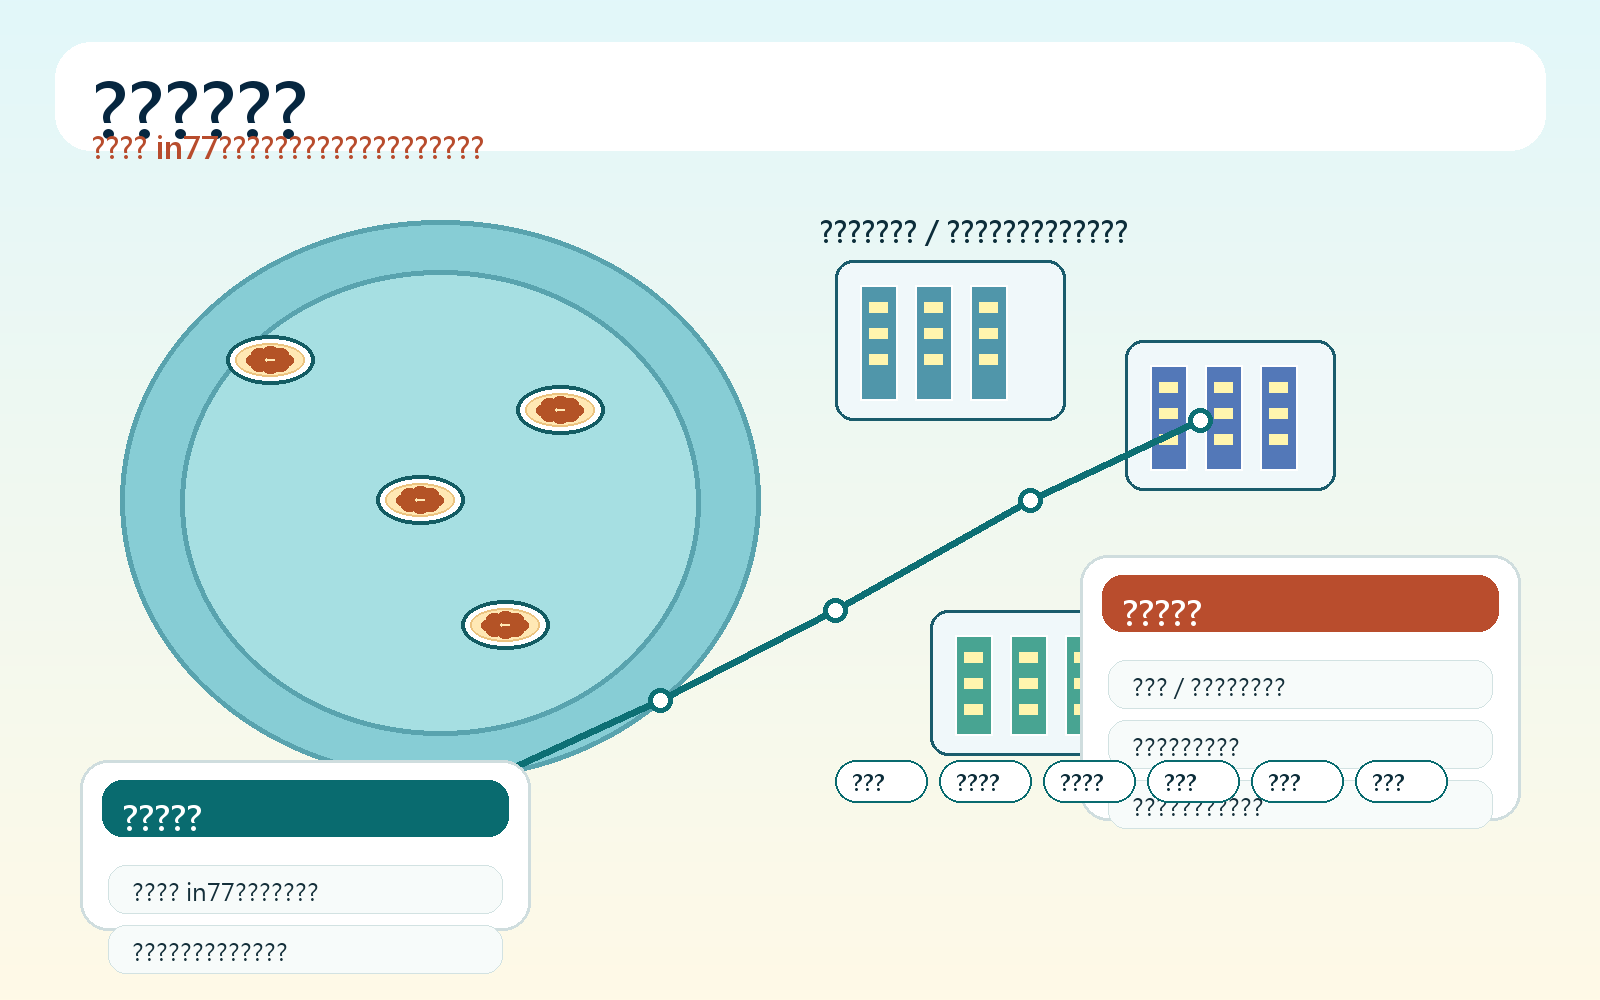
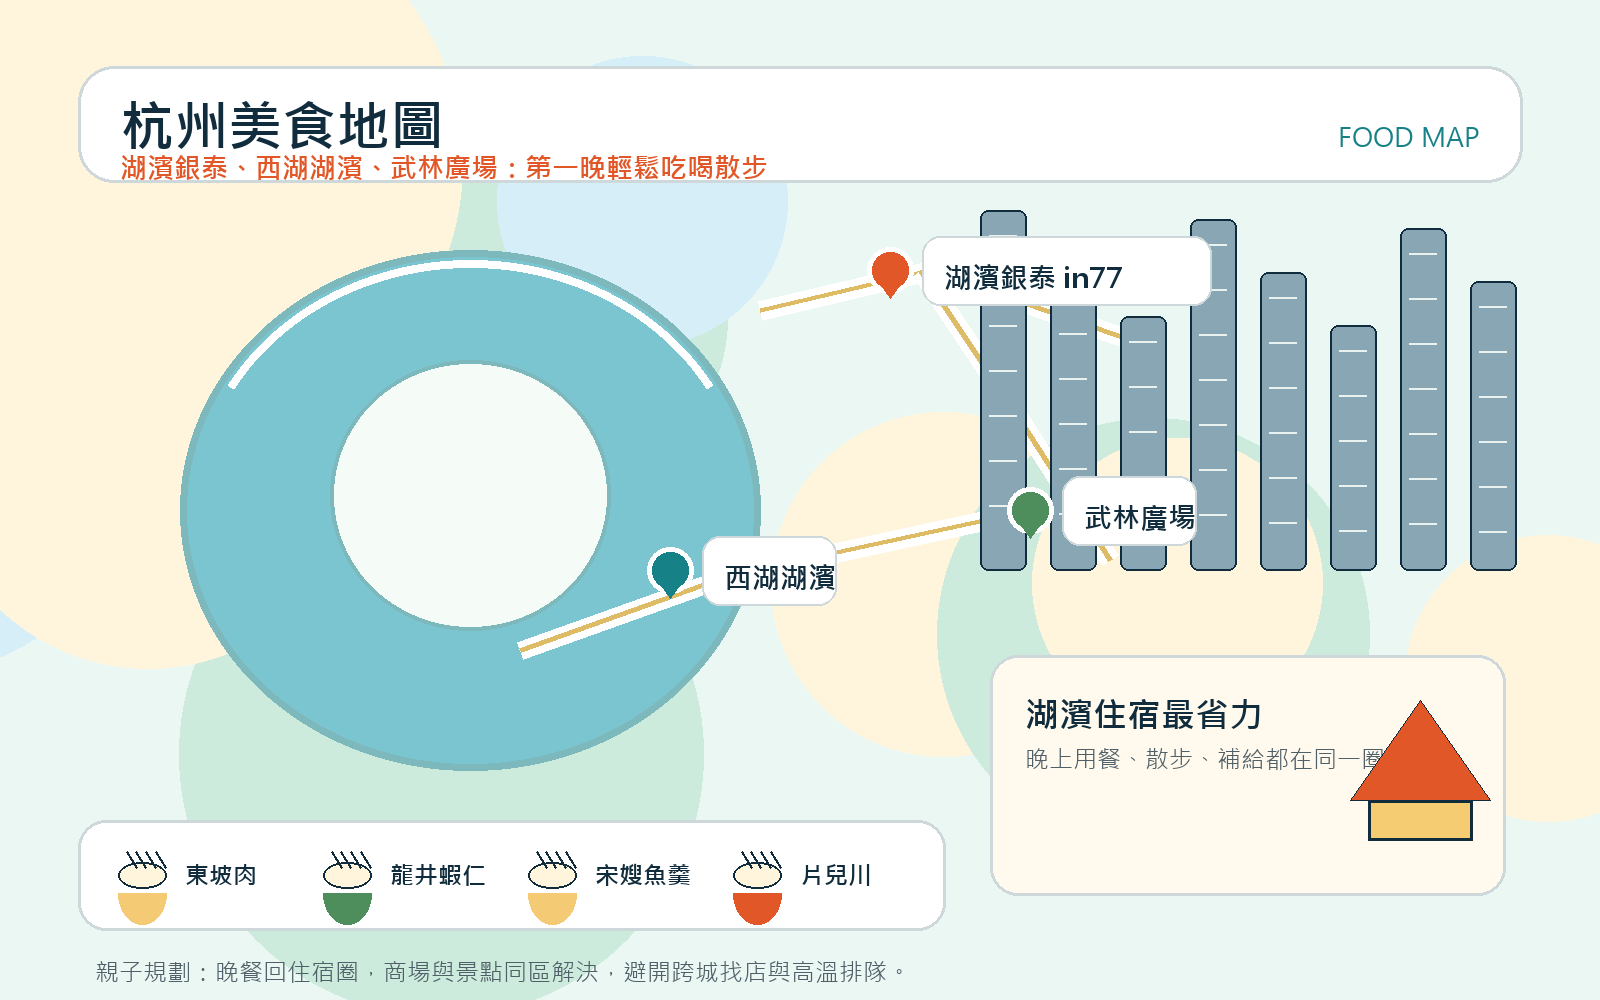
Upgrade food maps and restaurant cards

diff --git a/index.html b/index.html
@@ -17,15 +17,15 @@
     .transport-grid{display:grid;grid-template-columns:repeat(4,1fr);gap:13px;margin-top:22px}.transport{border:1px solid var(--line);border-radius:18px;padding:20px;background:#fff}.transport .date{font-size:12px;color:var(--coral);font-weight:900}.transport h3{font-size:17px;margin:15px 0 7px}.transport p{color:var(--muted);font-size:13px;margin:0}
     .itinerary-layout{display:grid;grid-template-columns:330px 1fr;gap:24px;align-items:start}.day-nav{position:sticky;top:95px;border-radius:22px;background:var(--navy);padding:12px;border:1px solid #345261}.day-button{width:100%;text-align:left;padding:14px;border:1px solid transparent;border-radius:14px;background:transparent;color:#d7e2e5;display:grid;grid-template-columns:46px 1fr;gap:8px}.day-button:hover,.day-button.active,.day-button:focus-visible{background:#163d4e;color:#fff;border-color:#7e9aa6;outline:3px solid var(--gold);outline-offset:2px}.day-button b{color:var(--gold)}.day-button span{font-size:13px}.detail{color:var(--ink);border:1px solid var(--line);border-radius:27px;background:#fff;overflow:hidden;box-shadow:var(--shadow)}.detail-cover{min-height:245px;padding:36px;color:#fff;background:linear-gradient(120deg,var(--navy),#09545a);display:flex;align-items:flex-end;justify-content:space-between}.detail-cover h3{font-size:38px;line-height:1.1;margin:7px 0;color:#fff}.detail-cover p{max-width:500px;color:#e1eaed;line-height:1.7;font-size:14px}.pace{color:#fff;border:1px solid #b8cdd4;background:rgba(7,29,43,.55);border-radius:999px;padding:10px 14px;font-size:12px;white-space:nowrap}.schedule{padding:12px 32px 32px}.schedule-row{display:grid;grid-template-columns:90px 170px 1fr;gap:20px;padding:20px 0;border-bottom:1px solid var(--line)}.schedule-row:last-child{border:none}.time{color:var(--teal);font-weight:900}.schedule-row b{color:var(--ink);font-size:14px}.schedule-row p{margin:0;color:var(--muted);font-size:14px;line-height:1.6}.day-meta{display:grid;grid-template-columns:repeat(3,1fr);gap:10px;padding:0 32px 32px}.meta{color:var(--ink);padding:15px;border-radius:15px;background:var(--teal-light);border:1px solid #bad4d1}.meta small,.meta b{display:block}.meta small{color:var(--muted);font-size:12px}.meta b{color:var(--ink);font-size:13px;margin-top:7px}
     .stay-grid{display:grid;grid-template-columns:repeat(3,1fr);gap:16px}.stay{border-radius:22px;background:#fff;border:1px solid var(--line);padding:25px}.stay .city{font-size:11px;color:var(--coral);font-weight:900}.stay h3{font-size:23px;margin:13px 0}.stay ul{padding-left:18px;margin:0;color:var(--muted);font-size:12px;line-height:1.9}.stay .night{display:inline-block;margin-top:20px;padding:7px 10px;border-radius:999px;background:var(--teal-light);color:var(--teal);font-size:11px;font-weight:800}
-    .guide-grid{display:grid;grid-template-columns:repeat(3,1fr);gap:16px}.guide-card{border:1px solid var(--line);border-radius:24px;background:#fff;padding:24px;box-shadow:var(--shadow)}.guide-card .label,.food-zone .label{display:inline-block;padding:6px 10px;border-radius:999px;background:var(--teal-light);color:var(--teal);font-size:11px;font-weight:900}.guide-card h3,.food-zone h3{margin:14px 0 12px;font-size:24px}.guide-card p,.food-zone p{margin:0;color:var(--muted);font-size:13px;line-height:1.75}.guide-list{display:grid;gap:9px;margin-top:17px}.guide-list span{padding:10px 12px;border-radius:13px;background:#f7fbfa;border:1px solid var(--line);font-size:13px;line-height:1.55}.food-map-gallery{display:grid;grid-template-columns:repeat(3,1fr);gap:16px;margin:0 0 22px}.food-map-card{border:1px solid #496673;border-radius:24px;background:#0f2c3a;overflow:hidden;box-shadow:var(--shadow)}.food-map-card button{display:block;width:100%;padding:0;border:0;background:transparent;text-align:left;color:#fff;cursor:pointer}.food-map-card img{display:block;width:100%;height:270px;object-fit:cover;object-position:center}.food-map-card b{display:block;padding:16px 18px 4px;font-size:18px}.food-map-card span{display:block;padding:0 18px 18px;color:#dbe5e8;font-size:13px;line-height:1.65}.food-layout{display:grid;grid-template-columns:.9fr 1.1fr;gap:18px}.food-zone{border:1px solid #496673;border-radius:24px;background:#102f3e;padding:24px;color:#fff}.food-zone .label{background:#fff;color:var(--navy)}.food-zone h3{color:#fff}.food-zone p{color:#dbe5e8}.dish-list{display:flex;flex-wrap:wrap;gap:8px;margin-top:16px}.dish-list span{padding:8px 10px;border-radius:999px;background:#fff;color:var(--navy);font-size:12px;font-weight:800}.plan-gallery{display:grid;grid-template-columns:repeat(4,1fr);gap:14px}.plan-ref{border:1px solid var(--line);border-radius:20px;background:#fff;overflow:hidden}.plan-ref button{width:100%;padding:0;border:2px solid transparent;background:none;text-align:left}.plan-ref img{display:block;width:100%;height:210px;object-fit:cover;object-position:top}.plan-ref b{display:block;padding:14px 16px;font-size:13px}.plan-ref button:focus-visible,.image-open:focus-visible{outline:3px solid var(--teal);outline-offset:3px}
+    .guide-grid{display:grid;grid-template-columns:repeat(3,1fr);gap:16px}.guide-card{border:1px solid var(--line);border-radius:24px;background:#fff;padding:24px;box-shadow:var(--shadow)}.guide-card .label{display:inline-block;padding:6px 10px;border-radius:999px;background:var(--teal-light);color:var(--teal);font-size:11px;font-weight:900}.guide-card h3{margin:14px 0 12px;font-size:24px}.guide-card p{margin:0;color:var(--muted);font-size:13px;line-height:1.75}.guide-list{display:grid;gap:9px;margin-top:17px}.guide-list span{padding:10px 12px;border-radius:13px;background:#f7fbfa;border:1px solid var(--line);font-size:13px;line-height:1.55}.food-city-stack{display:grid;gap:30px}.food-city{overflow:hidden;border:1px solid #496673;border-radius:28px;background:#0f2c3a;box-shadow:var(--shadow)}.food-city-cover button{display:block;width:100%;padding:0;border:0;background:transparent;cursor:pointer}.food-city-cover img{display:block;width:100%;height:auto}.food-city-body{padding:22px}.food-city-head{display:flex;align-items:end;justify-content:space-between;gap:18px;margin-bottom:16px}.food-city-head h3{margin:0;color:#fff;font-size:28px}.food-city-head p{max-width:620px;margin:0;color:#dbe5e8;font-size:13px;line-height:1.7}.restaurant-grid{display:grid;grid-template-columns:repeat(3,1fr);gap:14px}.restaurant-card{display:flex;flex-direction:column;gap:12px;border:1px solid #d6e2e3;border-radius:20px;background:#fff;padding:18px;color:var(--ink)}.restaurant-card .tag{align-self:flex-start;padding:6px 9px;border-radius:999px;background:var(--teal-light);color:var(--teal);font-size:11px;font-weight:900}.restaurant-card h4{margin:0;font-size:20px}.restaurant-meta{display:grid;gap:8px;margin:0;color:var(--muted);font-size:12px;line-height:1.6}.restaurant-meta div{padding:9px 10px;border-radius:12px;background:#f7fbfa;border:1px solid var(--line)}.restaurant-link{margin-top:auto;display:inline-flex;align-items:center;justify-content:center;border-radius:999px;background:var(--navy);color:#fff;text-decoration:none;padding:10px 13px;font-size:12px;font-weight:900}.food-note{margin-top:16px;color:#dbe5e8;font-size:12px;line-height:1.7}.plan-gallery{display:grid;grid-template-columns:repeat(4,1fr);gap:14px}.plan-ref{border:1px solid var(--line);border-radius:20px;background:#fff;overflow:hidden}.plan-ref button{width:100%;padding:0;border:2px solid transparent;background:none;text-align:left}.plan-ref img{display:block;width:100%;height:210px;object-fit:cover;object-position:top}.plan-ref b{display:block;padding:14px 16px;font-size:13px}.plan-ref button:focus-visible,.image-open:focus-visible{outline:3px solid var(--teal);outline-offset:3px}
     .cost-hero{display:grid;grid-template-columns:.78fr 1.22fr;gap:22px}.cost-total{border-radius:26px;padding:31px;background:var(--coral);color:#fff}.cost-total strong{display:block;font-size:55px;letter-spacing:-.06em;margin:10px 0}.cost-total p{font-size:13px;line-height:1.7;color:#fff}.cost-lines{background:#fff;border:1px solid var(--line);border-radius:26px;padding:22px 28px}.cost-line{display:grid;grid-template-columns:1fr auto;gap:10px;padding:18px 0;border-bottom:1px solid var(--line)}.cost-line:last-child{border:none}.cost-line span{font-size:14px;color:var(--muted)}.cost-line b{color:var(--teal)}.evidence-grid{display:grid;grid-template-columns:repeat(3,1fr);gap:14px;margin-top:28px}.evidence{border:1px solid var(--line);border-radius:21px;background:#fff;overflow:hidden}.evidence button{width:100%;padding:0;border:2px solid transparent;background:none;text-align:left}.evidence button:focus-visible{outline:3px solid var(--teal);outline-offset:3px}.evidence img{display:block;width:100%;height:210px;object-fit:cover;object-position:top}.evidence-copy{padding:18px}.evidence-copy b{display:block;font-size:14px}.evidence-copy span{font-size:12px;color:var(--muted);line-height:1.6}
     .apps{display:grid;grid-template-columns:repeat(4,1fr);gap:14px}.app{position:relative;border:1px solid #496673;border-radius:20px;padding:22px;background:#102f3e}.app-head{display:flex;align-items:center;gap:13px;margin-bottom:15px}.app-logo{width:56px;height:56px;flex:0 0 56px;object-fit:cover;border:3px solid #fff;border-radius:15px;background:#fff;box-shadow:0 7px 18px #00131d66}.app-title{min-width:0}.app-num{display:block;margin-bottom:3px;color:var(--gold);font-size:11px;font-weight:900;letter-spacing:.08em}.app h3{font-size:19px;margin:0;color:#fff}.app p{font-size:13px;color:#dbe5e8;line-height:1.75}.app-tag{display:inline-block;margin-top:10px;padding:6px 9px;border-radius:999px;background:#fff;color:var(--navy);font-size:11px;font-weight:800}.apps-source{margin-top:23px;padding:18px 22px;border:1px dashed #75909a;border-radius:17px;color:#dbe5e8;font-size:12px;line-height:1.7}.app-reference{display:grid;grid-template-columns:190px 1fr;gap:22px;align-items:center;margin-top:18px;padding:18px;border-radius:20px;background:#102f3e;border:1px solid #496673}.app-reference button{padding:0;border:2px solid transparent;background:none;border-radius:15px}.app-reference button:focus-visible{outline:3px solid var(--gold);outline-offset:3px}.app-reference img{display:block;width:190px;height:150px;object-fit:cover;object-position:top;border-radius:13px}.app-reference b{display:block;margin-bottom:8px;color:#fff}.app-reference p{margin:0;color:#dbe5e8;font-size:12px;line-height:1.7}
     .check-grid{display:grid;grid-template-columns:repeat(4,1fr);gap:14px}.check{border:1px solid var(--line);border-radius:20px;background:#fff;padding:23px}.check b{display:block;font-size:16px;margin-bottom:10px}.check p{color:var(--muted);font-size:12px;line-height:1.7;margin:0}.check i{display:block;width:28px;height:5px;border-radius:99px;background:var(--coral);margin-bottom:25px}
     .modal{position:fixed;z-index:100;inset:0;display:none;align-items:center;justify-content:center;padding:25px;background:rgba(2,14,21,.88)}.modal.open{display:flex}.modal img{max-width:min(1400px,96vw);max-height:90vh;border-radius:13px;box-shadow:0 20px 80px #000}.modal-close{position:absolute;right:25px;top:25px;width:44px;height:44px;border-radius:50%;border:1px solid rgba(255,255,255,.4);background:rgba(0,0,0,.3);color:#fff;font-size:25px}
     footer{padding:45px 0;background:#041722;color:#fff}.footer{display:flex;align-items:center;justify-content:space-between}.footer p{color:#c9d7dc;font-size:12px}
     @media(prefers-reduced-motion:reduce){*{scroll-behavior:auto!important;transition:none!important}}
-    @media(max-width:960px){.navlinks{display:none}.hero-inner,.overview,.itinerary-layout,.cost-hero,.food-layout{grid-template-columns:1fr}.proposal{max-width:500px}.quickgrid{grid-template-columns:repeat(3,1fr)}.transport-grid,.apps,.check-grid,.guide-grid,.food-map-gallery,.plan-gallery{grid-template-columns:repeat(2,1fr)}.stay-grid,.evidence-grid{grid-template-columns:1fr}.day-nav{position:static;display:flex;overflow:auto}.day-button{min-width:180px}.route-line{grid-template-columns:repeat(3,1fr)}}
-    @media(max-width:600px){.container{width:min(100% - 26px,1200px)}section{padding:68px 0}.hero{min-height:920px}.hero h1{font-size:47px}.hero-inner{padding-top:130px}.quickgrid,.transport-grid,.apps,.check-grid,.guide-grid,.food-map-gallery,.plan-gallery{grid-template-columns:1fr}.food-map-card img{height:210px}.route-line{grid-template-columns:repeat(2,1fr)}.section-head{display:block}.section-head p{margin-top:18px}.detail-cover{display:block;padding:25px}.detail-cover h3{font-size:30px}.pace{display:inline-block;margin-top:15px}.schedule{padding:8px 20px 20px}.schedule-row{grid-template-columns:65px 1fr}.schedule-row p{grid-column:2}.day-meta{grid-template-columns:1fr;padding:0 20px 20px}.cost-total strong{font-size:43px}.evidence img,.plan-ref img{height:180px}.footer{display:block}}
+    @media(max-width:960px){.navlinks{display:none}.hero-inner,.overview,.itinerary-layout,.cost-hero{grid-template-columns:1fr}.proposal{max-width:500px}.quickgrid{grid-template-columns:repeat(3,1fr)}.transport-grid,.apps,.check-grid,.guide-grid,.restaurant-grid,.plan-gallery{grid-template-columns:repeat(2,1fr)}.stay-grid,.evidence-grid{grid-template-columns:1fr}.day-nav{position:static;display:flex;overflow:auto}.day-button{min-width:180px}.route-line{grid-template-columns:repeat(3,1fr)}}
+    @media(max-width:600px){.container{width:min(100% - 26px,1200px)}section{padding:68px 0}.hero{min-height:920px}.hero h1{font-size:47px}.hero-inner{padding-top:130px}.quickgrid,.transport-grid,.apps,.check-grid,.guide-grid,.restaurant-grid,.plan-gallery{grid-template-columns:1fr}.food-city-head{display:block}.food-city-head p{margin-top:10px}.route-line{grid-template-columns:repeat(2,1fr)}.section-head{display:block}.section-head p{margin-top:18px}.detail-cover{display:block;padding:25px}.detail-cover h3{font-size:30px}.pace{display:inline-block;margin-top:15px}.schedule{padding:8px 20px 20px}.schedule-row{grid-template-columns:65px 1fr}.schedule-row p{grid-column:2}.day-meta{grid-template-columns:1fr;padding:0 20px 20px}.cost-total strong{font-size:43px}.evidence img,.plan-ref img{height:180px}.footer{display:block}}
   </style>
 </head>
 <body>
@@ -36,7 +36,7 @@
     <section id="overview"><div class="container"><div class="section-head"><div><div class="eyebrow">TRIP BLUEPRINT</div><h2>旅行社等級的<br><span class="serif">全家出發藍圖</span></h2></div><p>不是把景點塞滿，而是把交通、休息、餐食與備案排進同一份計畫，讓每個年齡都能玩得舒服。</p></div><div class="overview"><div class="route-card"><div class="eyebrow">ROUTE MAP</div><div class="route-line" id="routeLine"></div></div><aside class="strategy-card"><h3 id="strategyTitle"></h3><div id="strategyRules"></div></aside></div><div class="transport-grid" id="transportGrid"></div></div></section>
     <section class="dark" id="itinerary"><div class="container"><div class="section-head"><div><div class="eyebrow">DETAILED ITINERARY</div><h2>每日詳細計畫</h2></div><p>點選日期即可查看建議時段、移動方式、親子節奏與當日備案。所有時間皆保留彈性，不把家族旅行排成趕場任務。</p></div><div class="itinerary-layout"><div class="day-nav" id="dayNav"></div><div class="detail" id="dayDetail"></div></div></div></section>
     <section id="guide"><div class="container"><div class="section-head"><div><div class="eyebrow">MALLS & PLACES</div><h2>景點、商場與<br><span class="serif">避暑備案</span></h2></div><p>七八月以「上午戶外、午後室內、晚上商圈美食」為核心。每座城市都準備可吹冷氣、可吃飯、可讓孩子休息的替代點。</p></div><div class="guide-grid"><article class="guide-card"><span class="label">杭州 1 晚</span><h3>湖濱銀泰 in77 / 西湖湖濱</h3><p>入住日不排靈隱寺等遠程景點，以湖濱商圈、西湖短走、杭州菜晚餐為主。</p><div class="guide-list"><span>商場：湖濱銀泰 in77、杭州嘉里中心、武林銀泰</span><span>景點：西湖湖濱、斷橋、白堤短走</span><span>室內：中國絲綢博物館、浙江自然博物院</span></div></article><article class="guide-card"><span class="label">成都 4 晚</span><h3>春熙路 / 太古里 / IFS 最方便</h3><p>住宿靠近商圈，熊貓基地安排早上；中午回市區吃飯，下午用商場或博物館降溫。</p><div class="guide-list"><span>商場：成都 IFS、太古里、萬象城、SKP、環球中心</span><span>景點：熊貓基地、人民公園、寬窄巷子、成都博物館</span><span>親子室內：成都自然博物館、四川科技館</span></div></article><article class="guide-card"><span class="label">重慶 2 晚</span><h3>來福士 / 解放碑 / 朝天門</h3><p>山城坡多，親子團不適合每天跨區暴走。住核心區，晚餐、夜景、商場備案都集中。</p><div class="guide-list"><span>商場：重慶來福士、解放碑商圈、觀音橋北城天街、萬象城</span><span>景點：洪崖洞夜景、朝天門、長江索道、三峽博物館</span><span>親子備案：重慶科技館、重慶動物園、商場餐廳</span></div></article></div></div></section>
-    <section class="dark" id="food"><div class="container"><div class="section-head"><div><div class="eyebrow">FOOD MAP</div><h2>美食地圖</h2></div><p>新增三張城市美食概況圖，可點擊放大。規劃重點不是追逐單一名店，而是按住宿圈、商場與景點分區，讓晚餐回同一區處理。</p></div><div class="food-map-gallery"><article class="food-map-card"><button class="image-open" data-image="assets/food-map-hangzhou.png"><img loading="lazy" src="assets/food-map-hangzhou.png" alt="杭州湖濱與西湖美食地圖"><b>杭州美食地圖</b><span>湖濱銀泰、西湖湖濱與武林廣場三區，第一晚以晚餐、散步、補給為主。</span></button></article><article class="food-map-card"><button class="image-open" data-image="assets/food-map-chengdu.png"><img loading="lazy" src="assets/food-map-chengdu.png" alt="成都春熙路太古里與人民公園美食地圖"><b>成都美食地圖</b><span>春熙路、太古里、IFS、人民公園與寬窄巷子，安排火鍋、川菜、小吃與茶館。</span></button></article><article class="food-map-card"><button class="image-open" data-image="assets/food-map-chongqing.png"><img loading="lazy" src="assets/food-map-chongqing.png" alt="重慶解放碑來福士洪崖洞美食地圖"><b>重慶美食地圖</b><span>解放碑、來福士、朝天門、洪崖洞與觀音橋，晚餐以住宿圈附近為優先。</span></button></article></div><div class="food-layout"><article class="food-zone"><span class="label">杭州湖濱區</span><h3>杭州菜與小吃</h3><p>湖濱銀泰 in77 周邊最適合第一晚，吃飯、散步、買補給都方便。</p><div class="dish-list"><span>外婆家</span><span>新白鹿</span><span>知味觀</span><span>東坡肉</span><span>龍井蝦仁</span><span>片兒川</span><span>蔥包檜</span><span>定勝糕</span></div></article><article class="food-zone"><span class="label">成都春熙路 / 太古里 / IFS</span><h3>火鍋、川菜與小吃主餐區</h3><p>晚餐優先回住宿圈附近處理，熱門餐廳只當選項，不讓排隊拖垮親子節奏。</p><div class="dish-list"><span>馬旺子</span><span>川小館</span><span>陶德砂鍋</span><span>烤匠麻辣烤魚</span><span>吼堂老火鍋</span><span>饕林餐廳</span><span>龍抄手</span><span>鐘水餃</span><span>冰粉</span></div></article><article class="food-zone"><span class="label">成都人民公園 / 寬窄巷子</span><h3>茶館、小吃與慢逛</h3><p>適合拍照與短時間逛街，孩子累了就回商場或飯店，不把整天押在戶外。</p><div class="dish-list"><span>鶴鳴茶社</span><span>陳麻婆豆腐</span><span>鍋盔</span><span>糖油果子</span><span>甜水麵</span><span>豆花</span></div></article><article class="food-zone"><span class="label">重慶解放碑 / 來福士 / 洪崖洞</span><h3>山城火鍋與夜景小吃</h3><p>住宿附近吃最穩，洪崖洞以夜景與小吃為主，不建議把正餐核心押在景區內。</p><div class="dish-list"><span>楊記隆府</span><span>山城老堂口 1636</span><span>田棒棒火鍋</span><span>天棒老火鍋</span><span>在渝里</span><span>重慶小麵</span><span>豌雜麵</span><span>抄手</span></div></article></div></div></section>
+    <section class="dark" id="food"><div class="container"><div class="section-head"><div><div class="eyebrow">FOOD MAP</div><h2>美食地圖</h2></div><p>改成旅行社規劃用法：每座城市先看地圖概況，再看推薦店家卡。營業時間、地址與價格會變動，這裡作為行程規劃參考，付款或出發前請用連結再次確認。</p></div><div class="food-city-stack"><article class="food-city"><div class="food-city-cover"><button class="image-open" data-image="assets/food-map-hangzhou.png"><img loading="lazy" src="assets/food-map-hangzhou.png" alt="杭州湖濱銀泰西湖湖濱武林廣場美食地圖"></button></div><div class="food-city-body"><div class="food-city-head"><h3>杭州｜湖濱、西湖與武林商圈</h3><p>只住一晚，餐廳以湖濱商圈和西湖湖濱周邊為主，降低第一天拖行李與帶孩子移動的壓力。</p></div><div class="restaurant-grid"><article class="restaurant-card"><span class="tag">杭州菜</span><h4>外婆家｜湖濱銀泰 in77 周邊</h4><div class="restaurant-meta"><div><b>建議時段</b> 10:30 後午晚餐；熱門時段需排隊</div><div><b>人均</b> 約 RMB 60–90</div><div><b>推薦</b> 東坡肉、茶香雞、杭幫家常菜</div><div><b>地址</b> 湖濱銀泰 in77 商圈，導航分店確認</div></div><a class="restaurant-link" href="https://www.amap.com/search?query=杭州%20外婆家%20湖滨银泰%20in77" target="_blank" rel="noopener">查看地圖與最新資訊</a></article><article class="restaurant-card"><span class="tag">老字號小吃</span><h4>知味觀｜湖濱總店 / 湖濱周邊</h4><div class="restaurant-meta"><div><b>建議時段</b> 約 07:00 後，早午餐與點心都可排</div><div><b>人均</b> 約 RMB 40–80</div><div><b>推薦</b> 小籠、片兒川、定勝糕、貓耳朵</div><div><b>地址</b> 杭州湖濱商圈，常見總店在仁和路一帶</div></div><a class="restaurant-link" href="https://www.amap.com/search?query=杭州%20知味观%20湖滨店" target="_blank" rel="noopener">查看地圖與最新資訊</a></article><article class="restaurant-card"><span class="tag">親子友善</span><h4>新白鹿｜西湖銀泰 / 湖濱周邊</h4><div class="restaurant-meta"><div><b>建議時段</b> 10:30 後午晚餐；適合不想吃太重口味</div><div><b>人均</b> 約 RMB 50–80</div><div><b>推薦</b> 蛋黃雞翅、糖醋排骨、杭幫菜</div><div><b>地址</b> 西湖銀泰或湖濱商圈分店，導航確認</div></div><a class="restaurant-link" href="https://www.amap.com/search?query=杭州%20新白鹿%20西湖银泰" target="_blank" rel="noopener">查看地圖與最新資訊</a></article></div></div></article><article class="food-city"><div class="food-city-cover"><button class="image-open" data-image="assets/food-map-chengdu.png"><img loading="lazy" src="assets/food-map-chengdu.png" alt="成都春熙路太古里IFS人民公園寬窄巷子美食地圖"></button></div><div class="food-city-body"><div class="food-city-head"><h3>成都｜春熙路、太古里與人民公園</h3><p>成都連住多晚，建議把晚餐壓在春熙路、太古里、IFS 與人民公園周邊，下午可直接接商場避暑。</p></div><div class="restaurant-grid"><article class="restaurant-card"><span class="tag">川菜主餐</span><h4>馬旺子・川小館｜太古里周邊</h4><div class="restaurant-meta"><div><b>建議時段</b> 午餐約 11:00 後；晚餐建議提前取號</div><div><b>人均</b> 約 RMB 100–150</div><div><b>推薦</b> 毛血旺、回鍋肉、水煮牛肉、川味熱菜</div><div><b>地址</b> 錦江區太古里 / 東糠市街周邊，導航確認</div></div><a class="restaurant-link" href="https://www.amap.com/search?query=成都%20马旺子%20川小馆%20太古里" target="_blank" rel="noopener">查看地圖與最新資訊</a></article><article class="restaurant-card"><span class="tag">砂鍋家常</span><h4>陶德砂鍋｜春熙路 / 太古里圈</h4><div class="restaurant-meta"><div><b>建議時段</b> 約 10:30 後；適合午餐或孩子累時近距離用餐</div><div><b>人均</b> 約 RMB 60–90</div><div><b>推薦</b> 陶德砂鍋、粉蒸肉、甜燒白、家常川菜</div><div><b>地址</b> 春熙路、總府路或太古里周邊分店</div></div><a class="restaurant-link" href="https://www.amap.com/search?query=成都%20陶德砂锅%20春熙路" target="_blank" rel="noopener">查看地圖與最新資訊</a></article><article class="restaurant-card"><span class="tag">商場晚餐</span><h4>烤匠麻辣烤魚｜IFS / 太古里</h4><div class="restaurant-meta"><div><b>建議時段</b> 約 11:00 後；晚餐排隊風險較高</div><div><b>人均</b> 約 RMB 90–130</div><div><b>推薦</b> 麻辣烤魚、黑豆花、冰粉、涼菜</div><div><b>地址</b> 成都 IFS 或太古里商圈分店</div></div><a class="restaurant-link" href="https://www.amap.com/search?query=成都%20烤匠麻辣烤鱼%20IFS" target="_blank" rel="noopener">查看地圖與最新資訊</a></article></div></div></article><article class="food-city"><div class="food-city-cover"><button class="image-open" data-image="assets/food-map-chongqing.png"><img loading="lazy" src="assets/food-map-chongqing.png" alt="重慶解放碑來福士朝天門洪崖洞觀音橋美食地圖"></button></div><div class="food-city-body"><div class="food-city-head"><h3>重慶｜解放碑、來福士與洪崖洞夜景</h3><p>重慶坡多又熱，餐廳建議跟住宿圈綁在一起。洪崖洞以夜景和小吃為主，正式晚餐放在解放碑或來福士周邊。</p></div><div class="restaurant-grid"><article class="restaurant-card"><span class="tag">江湖菜</span><h4>楊記隆府｜解放碑周邊</h4><div class="restaurant-meta"><div><b>建議時段</b> 約 11:00 後；晚餐建議避開尖峰</div><div><b>人均</b> 約 RMB 80–130</div><div><b>推薦</b> 招牌魚、辣子雞、民國風江湖菜</div><div><b>地址</b> 解放碑商圈，導航分店確認</div></div><a class="restaurant-link" href="https://www.amap.com/search?query=重庆%20杨记隆府%20解放碑" target="_blank" rel="noopener">查看地圖與最新資訊</a></article><article class="restaurant-card"><span class="tag">山城風味</span><h4>山城老堂口 1636｜解放碑</h4><div class="restaurant-meta"><div><b>建議時段</b> 約 11:00 後；適合拍照與重慶菜體驗</div><div><b>人均</b> 約 RMB 80–120</div><div><b>推薦</b> 江湖菜、辣子雞、重慶小麵、下飯熱菜</div><div><b>地址</b> 解放碑 / 較場口周邊，導航確認</div></div><a class="restaurant-link" href="https://www.amap.com/search?query=重庆%20山城老堂口1636%20解放碑" target="_blank" rel="noopener">查看地圖與最新資訊</a></article><article class="restaurant-card"><span class="tag">火鍋</span><h4>田棒棒火鍋｜解放碑周邊</h4><div class="restaurant-meta"><div><b>建議時段</b> 約 10:00 後；宵夜時段可能營業較晚</div><div><b>人均</b> 約 RMB 100–150</div><div><b>推薦</b> 紅湯鍋、毛肚、鴨腸、冰粉</div><div><b>地址</b> 解放碑商圈分店，導航確認</div></div><a class="restaurant-link" href="https://www.amap.com/search?query=重庆%20田棒棒火锅%20解放碑" target="_blank" rel="noopener">查看地圖與最新資訊</a></article></div><p class="food-note">備註：人均與營業時間以 2026 規劃參考區間呈現，實際可能因分店、假日與平台更新不同；下單或出發前請用高德 / 大眾點評 / 攜程再確認。</p></div></article></div></div></section>
     <section id="stay"><div class="container"><div class="section-head"><div><div class="eyebrow">STAY & DINING</div><h2>住宿與餐食策略</h2></div><p>住宿不只看星級，更要看是否能減少轉乘、讓孩子午睡、方便洗衣與寄放行李。</p></div><div class="stay-grid" id="stayGrid"></div></div></section>
     <section id="cost"><div class="container"><div class="section-head"><div><div class="eyebrow">SELECTED TRANSPORT BUDGET</div><h2>選定交通費與<br><span class="serif">原始價格佐證</span></h2></div><p>以下依目前選定方案估算，保留原始畫面供家人核對。點擊任何截圖可放大查看，價格與行李規則請於付款前再次確認。</p></div><div class="cost-hero"><div class="cost-total"><div class="eyebrow" style="color:#fff">SELECTED VISIBLE TOTAL</div><strong id="maxTotal"></strong><p id="maxNote"></p></div><div class="cost-lines" id="costLines"></div></div><div class="evidence-grid" id="evidenceGrid"></div></div></section>
     <section id="references"><div class="container"><div class="section-head"><div><div class="eyebrow">REFERENCE BOARD</div><h2>參考行程圖集</h2></div><p>保留原始 8 張參考圖，方便家人對照航班、城市分配、景點、美食與回程注意事項。點擊可放大查看。</p></div><div class="plan-gallery"><article class="plan-ref"><button class="image-open" data-image="assets/reference-plan-1.png"><img loading="lazy" src="assets/reference-plan-1.png" alt="參考行程總覽"><b>1/8 行程總覽</b></button></article><article class="plan-ref"><button class="image-open" data-image="assets/reference-plan-2.png"><img loading="lazy" src="assets/reference-plan-2.png" alt="杭州篇參考"><b>2/8 杭州篇</b></button></article><article class="plan-ref"><button class="image-open" data-image="assets/reference-plan-3.png"><img loading="lazy" src="assets/reference-plan-3.png" alt="成都商場室內備案"><b>3/8 成都商場與室內</b></button></article><article class="plan-ref"><button class="image-open" data-image="assets/reference-plan-4.png"><img loading="lazy" src="assets/reference-plan-4.png" alt="成都每日行程"><b>4/8 成都每日行程</b></button></article><article class="plan-ref"><button class="image-open" data-image="assets/reference-plan-5.png"><img loading="lazy" src="assets/reference-plan-5.png" alt="成都美食地圖"><b>5/8 成都美食地圖</b></button></article><article class="plan-ref"><button class="image-open" data-image="assets/reference-plan-6.png"><img loading="lazy" src="assets/reference-plan-6.png" alt="重慶推薦池"><b>6/8 重慶推薦池</b></button></article><article class="plan-ref"><button class="image-open" data-image="assets/reference-plan-7.png"><img loading="lazy" src="assets/reference-plan-7.png" alt="重慶美食地圖"><b>7/8 重慶美食地圖</b></button></article><article class="plan-ref"><button class="image-open" data-image="assets/reference-plan-8.png"><img loading="lazy" src="assets/reference-plan-8.png" alt="回程收尾"><b>8/8 回程收尾</b></button></article></div></div></section>

diff --git a/scripts/build_food_maps.py b/scripts/build_food_maps.py
@@ -1,0 +1,151 @@
+from PIL import Image, ImageDraw, ImageFont
+from pathlib import Path
+import math
+import random
+
+OUT = Path(__file__).resolve().parents[1] / "assets"
+FONT = "C:/Windows/Fonts/msjh.ttc"
+FONT_BOLD = "C:/Windows/Fonts/msjhbd.ttc"
+
+
+def font(size, bold=False):
+    return ImageFont.truetype(FONT_BOLD if bold else FONT, size)
+
+
+def text(draw, xy, value, fill, size=36, anchor=None, bold=False):
+    draw.text(xy, value, font=font(size, bold), fill=fill, anchor=anchor)
+
+
+def rounded(draw, box, radius, fill, outline=None, width=1):
+    draw.rounded_rectangle(box, radius=radius, fill=fill, outline=outline, width=width)
+
+
+def icon_bowl(draw, cx, cy, scale=1, fill=(226, 87, 39)):
+    w, h = int(86 * scale), int(48 * scale)
+    draw.ellipse((cx - w // 2, cy - h // 2, cx + w // 2, cy + h // 2), fill=(255, 245, 221), outline=(17, 45, 61), width=max(2, int(3 * scale)))
+    draw.pieslice((cx - w // 2, cy - h // 2, cx + w // 2, cy + h // 2 + 36), 0, 180, fill=fill)
+    for i in range(4):
+        x = cx - w // 3 + i * w // 5
+        draw.line((x, cy - h // 2 - 18 * scale, x + 18 * scale, cy - h // 2 + 10 * scale), fill=(17, 45, 61), width=max(2, int(3 * scale)))
+
+
+def pin(draw, x, y, label, accent=(226, 87, 39)):
+    draw.ellipse((x - 23, y - 23, x + 23, y + 23), fill=accent, outline="white", width=5)
+    draw.polygon([(x, y + 28), (x - 13, y + 10), (x + 13, y + 10)], fill=accent)
+    tw = min(42 + len(label) * 31, 360)
+    rounded(draw, (x + 32, y - 34, x + tw, y + 35), 18, (255, 255, 255), (206, 216, 218), 2)
+    text(draw, (x + 54, y - 13), label, (17, 45, 61), 28, bold=True)
+
+
+def make_city(filename, city, subtitle, palette, water, pins, dishes, routes, landmark):
+    random.seed(filename)
+    width, height = 1600, 1000
+    img = Image.new("RGB", (width, height), palette["bg"])
+    draw = ImageDraw.Draw(img)
+
+    for _ in range(12):
+        cx, cy = random.randint(-100, width + 100), random.randint(80, height - 80)
+        radius = random.randint(130, 320)
+        color = random.choice([palette["mint"], palette["cream"], palette["sky"]])
+        draw.ellipse((cx - radius, cy - radius, cx + radius, cy + radius), fill=color)
+
+    if water == "lake":
+        draw.ellipse((180, 250, 760, 770), fill=palette["water"], outline=(125, 184, 189), width=7)
+        draw.ellipse((330, 360, 610, 630), fill=(245, 251, 247), outline=(125, 184, 189), width=4)
+        draw.arc((190, 260, 750, 760), 210, 330, fill=(255, 255, 255), width=8)
+    elif water == "rivers":
+        draw.line([(0, 540), (320, 490), (620, 540), (930, 480), (1600, 550)], fill=palette["water"], width=145)
+        draw.line([(720, 0), (760, 230), (730, 520), (820, 1000)], fill=palette["water2"], width=110)
+        for x in [470, 1050, 1260]:
+            draw.arc((x - 150, 455, x + 150, 610), 200, 340, fill=(255, 255, 255), width=7)
+    else:
+        draw.line([(80, 710), (420, 620), (700, 670), (1040, 570), (1500, 640)], fill=palette["water"], width=88)
+        draw.ellipse((230, 170, 510, 410), fill=palette["park"], outline=(132, 180, 145), width=4)
+        draw.ellipse((970, 210, 1210, 420), fill=palette["park"], outline=(132, 180, 145), width=4)
+
+    for route in routes:
+        draw.line(route, fill=(255, 255, 255), width=20)
+        draw.line(route, fill=(222, 188, 102), width=5)
+
+    for i, x in enumerate(range(980, 1480, 70)):
+        top = 210 + ((i * 53) % 150)
+        draw.rounded_rectangle((x, top, x + 46, 570), radius=8, fill=(137, 166, 180), outline=(17, 45, 61), width=2)
+        for yy in range(top + 25, 550, 45):
+            draw.line((x + 9, yy, x + 36, yy), fill=(234, 242, 239), width=2)
+
+    rounded(draw, (78, 66, 1522, 182), 36, (255, 255, 255), (206, 216, 218), 3)
+    text(draw, (120, 87), city, (17, 45, 61), 54, bold=True)
+    text(draw, (120, 148), subtitle, (226, 87, 39), 27, bold=True)
+    text(draw, (1480, 119), "FOOD MAP", (22, 129, 134), 26, anchor="ra")
+
+    for item in pins:
+        pin(draw, *item)
+
+    rounded(draw, (990, 655, 1505, 895), 28, (255, 250, 237), (206, 216, 218), 3)
+    text(draw, (1025, 690), landmark[0], (17, 45, 61), 34, bold=True)
+    text(draw, (1025, 742), landmark[1], (80, 96, 104), 24)
+
+    if city.startswith("成都"):
+        draw.ellipse((1360, 720, 1455, 815), fill="white", outline=(17, 45, 61), width=4)
+        draw.ellipse((1346, 702, 1388, 742), fill=(17, 45, 61))
+        draw.ellipse((1426, 702, 1468, 742), fill=(17, 45, 61))
+        draw.ellipse((1388, 755, 1408, 775), fill=(17, 45, 61))
+        draw.ellipse((1418, 755, 1438, 775), fill=(17, 45, 61))
+    elif city.startswith("重慶"):
+        draw.rectangle((1320, 730, 1455, 820), fill=(184, 91, 59), outline=(17, 45, 61), width=4)
+        for yy in [755, 785]:
+            draw.line((1320, yy, 1455, yy), fill=(255, 214, 132), width=3)
+    else:
+        draw.polygon([(1350, 800), (1420, 700), (1490, 800)], fill=(226, 87, 39), outline=(17, 45, 61))
+        draw.rectangle((1368, 800, 1472, 840), fill=(246, 204, 115), outline=(17, 45, 61), width=3)
+
+    rounded(draw, (78, 820, 945, 930), 28, (255, 255, 255), (206, 216, 218), 3)
+    x = 110
+    for dish in dishes:
+        icon_bowl(draw, x + 32, 875, 0.58, random.choice([(203, 46, 34), (226, 87, 39), (244, 202, 117), (77, 142, 92)]))
+        text(draw, (x + 75, 858), dish, (17, 45, 61), 24, bold=True)
+        x += 205 if len(dish) < 5 else 235
+        if x > 870:
+            break
+
+    text(draw, (95, 955), "親子規劃：晚餐回住宿圈，商場與景點同區解決，避開跨城找店與高溫排隊。", (80, 96, 104), 24)
+    img.save(OUT / filename, quality=95)
+
+
+common = {"bg": (235, 247, 243), "mint": (205, 235, 220), "cream": (255, 245, 221), "sky": (213, 238, 247), "water": (123, 197, 209), "water2": (104, 174, 190), "park": (181, 220, 174)}
+
+make_city(
+    "food-map-hangzhou.png",
+    "杭州美食地圖",
+    "湖濱銀泰、西湖湖濱、武林廣場：第一晚輕鬆吃喝散步",
+    common,
+    "lake",
+    [(890, 270, "湖濱銀泰 in77", (226, 87, 39)), (670, 570, "西湖湖濱", (22, 129, 134)), (1030, 510, "武林廣場", (77, 142, 92))],
+    ["東坡肉", "龍井蝦仁", "宋嫂魚羹", "片兒川", "蔥包檜", "定勝糕"],
+    [[(760, 310), (930, 270), (1160, 350)], [(520, 650), (730, 575), (1030, 510)], [(920, 270), (1020, 420), (1110, 560)]],
+    ("湖濱住宿最省力", "晚上用餐、散步、補給都在同一圈"),
+)
+
+make_city(
+    "food-map-chengdu.png",
+    "成都美食地圖",
+    "春熙路、太古里、IFS、人民公園、寬窄巷子：火鍋川菜小吃集中",
+    {"bg": (239, 247, 232), "mint": (212, 235, 213), "cream": (255, 243, 219), "sky": (219, 241, 247), "water": (128, 197, 209), "water2": (114, 184, 199), "park": (184, 220, 166)},
+    "city",
+    [(830, 270, "春熙路 / 太古里", (226, 87, 39)), (1040, 430, "IFS 熊貓地標", (17, 45, 61)), (530, 430, "人民公園茶館", (77, 142, 92)), (420, 630, "寬窄巷子", (137, 99, 61))],
+    ["麻婆豆腐", "水煮牛肉", "回鍋肉", "火鍋", "龍抄手", "鐘水餃", "冰粉"],
+    [[(420, 630), (530, 430), (830, 270), (1040, 430)], [(780, 710), (930, 520), (1040, 430)], [(300, 760), (420, 630), (830, 270)]],
+    ("上午戶外、午後商場", "IFS / 太古里 / 萬象城做避暑備案"),
+)
+
+make_city(
+    "food-map-chongqing.png",
+    "重慶美食地圖",
+    "解放碑、來福士、朝天門、洪崖洞、觀音橋：山城夜景與火鍋小麵",
+    {"bg": (235, 241, 247), "mint": (214, 232, 219), "cream": (255, 240, 219), "sky": (209, 230, 244), "water": (81, 159, 184), "water2": (70, 140, 170), "park": (184, 215, 176)},
+    "rivers",
+    [(730, 390, "解放碑", (226, 87, 39)), (1010, 355, "來福士 / 朝天門", (22, 129, 134)), (1130, 600, "洪崖洞夜景", (205, 83, 49)), (500, 650, "觀音橋商圈", (77, 142, 92))],
+    ["重慶小麵", "豌雜麵", "重慶火鍋", "毛肚", "鴨腸", "江湖魚", "冰粉"],
+    [[(500, 650), (730, 390), (1010, 355)], [(730, 390), (950, 500), (1130, 600)], [(500, 650), (680, 730), (1130, 600)]],
+    ("山城移動要省腿力", "住宿圈吃晚餐，洪崖洞以夜景小吃為主"),
+)